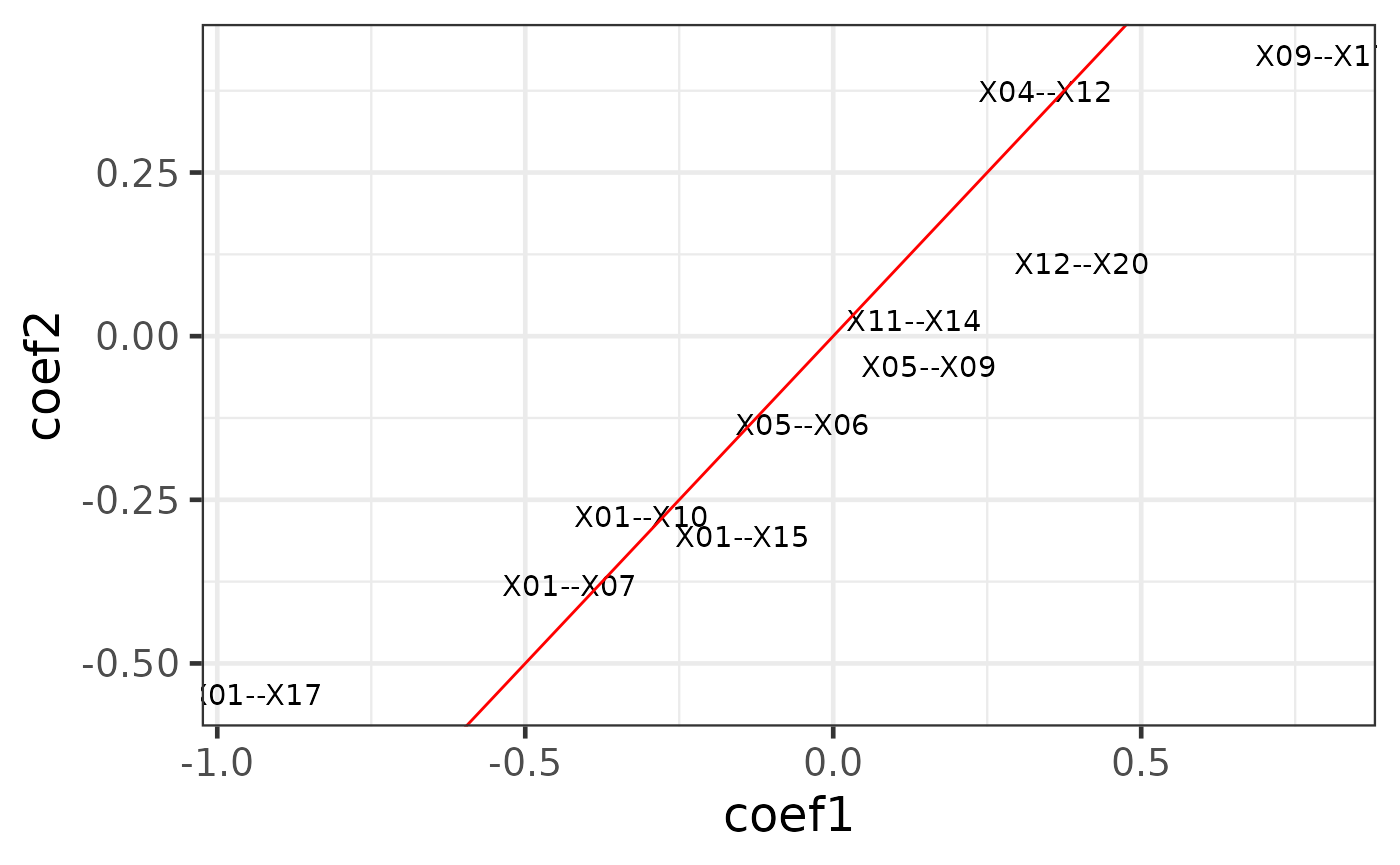
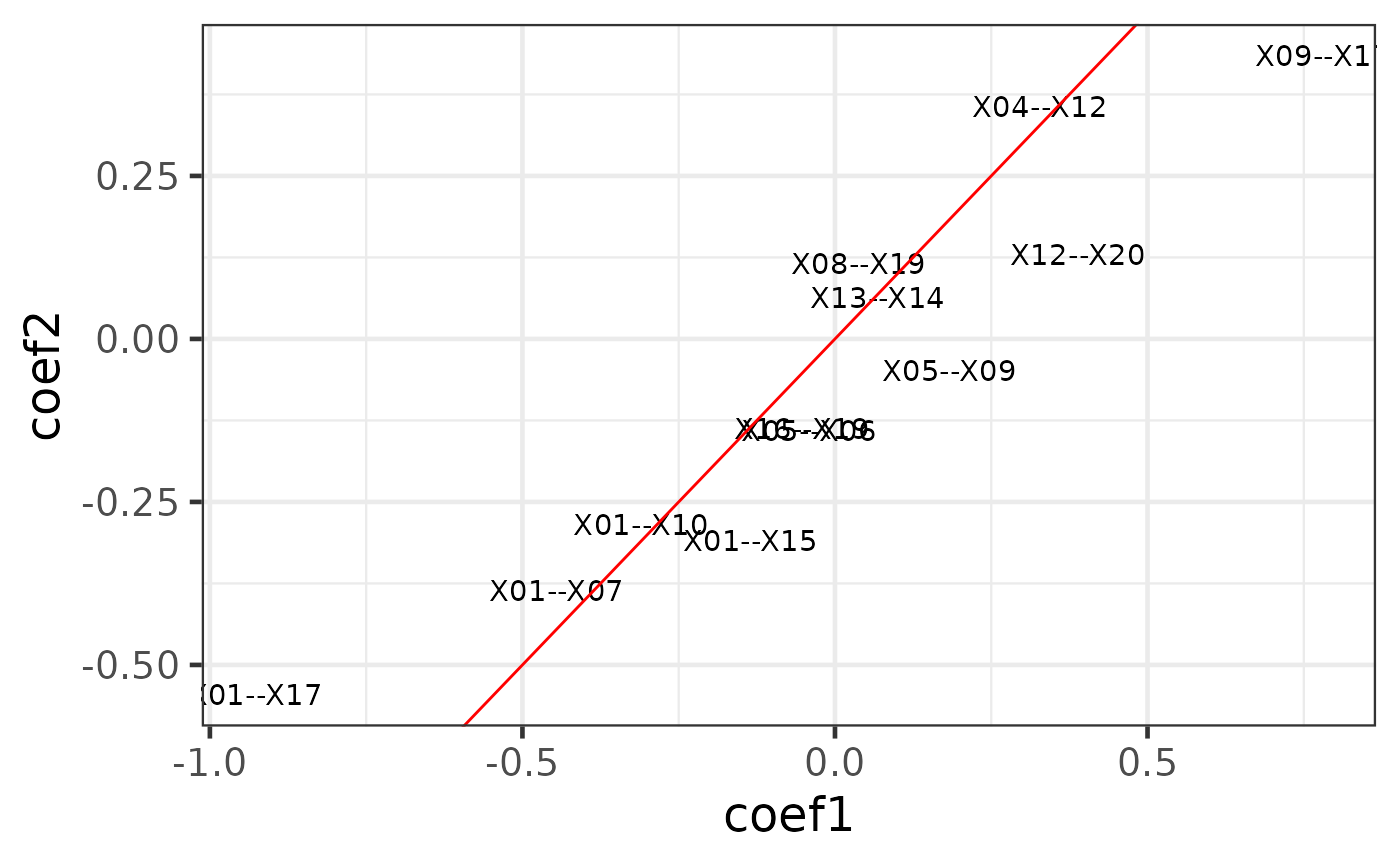
Built site for CPOP: 0.1.0@836260b

diff --git a/articles/CPOP.html b/articles/CPOP.html
@@ -46,7 +46,7 @@
   <a href="../reference/index.html">Reference</a>
 </li>
 <li class="dropdown">
-  <a href="#" class="dropdown-toggle" data-toggle="dropdown" role="button" aria-expanded="false">
+  <a href="#" class="dropdown-toggle" data-toggle="dropdown" role="button" data-bs-toggle="dropdown" aria-expanded="false">
     Articles
      
     <span class="caret"></span>
@@ -161,22 +161,15 @@
 <pre><code><span class="co">## Fitting CPOP model using alpha = 1</span></code></pre>
 <pre><code><span class="co">## Based on previous alpha, 0 features are kept</span></code></pre>
 <pre><code><span class="co">## CPOP1 - Step 01: Number of selected features: 0 out of 190</span></code></pre>
-<pre><code><span class="co">## CPOP1 - Step 02: Number of selected features: 9 out of 190</span></code></pre>
+<pre><code><span class="co">## CPOP1 - Step 02: Number of selected features: 8 out of 190</span></code></pre>
 <pre><code><span class="co">## CPOP1 - Step 03: Number of selected features: 15 out of 190</span></code></pre>
 <pre><code><span class="co">## 10 features was reached.</span></code></pre>
 <pre><code><span class="co">## A total of 15 features were selected.</span></code></pre>
 <pre><code><span class="co">## Removing sources of collinearity gives 12 features.</span></code></pre>
 <pre><code><span class="co">## 10 features was reached.</span></code></pre>
 <pre><code><span class="co">## A total of 12 features were selected.</span></code></pre>
-<pre><code><span class="co">## CPOP2 - Sign: Step 01: Number of leftover features: 10 out of 12</span></code></pre>
+<pre><code><span class="co">## CPOP2 - Sign: Step 01: Number of leftover features: 12 out of 12</span></code></pre>
 <pre><code><span class="co">## The sign matrix between the two data:</span></code></pre>
-<pre><code><span class="co">##     </span>
-<span class="co">##      -1 0 1</span>
-<span class="co">##   -1  0 0 1</span>
-<span class="co">##   0   0 0 0</span>
-<span class="co">##   1   1 0 0</span></code></pre>
-<pre><code><span class="co">## CPOP2 - Sign: Step 02: Number of leftover features: 10 out of 12</span>
-<span class="co">## The sign matrix between the two data:</span></code></pre>
 <pre><code><span class="co">##     </span>
 <span class="co">##      -1 0 1</span>
 <span class="co">##   -1  0 0 0</span>
@@ -188,50 +181,54 @@
 </h3>
 <p>The output of the <code>cpop_model</code> function is a <code>cpop</code> object with its own defined methods.</p>
 <p>The main method for a <code>cpop</code> object is the <code>plot_cpop</code> function, which produces several useful plot to understand what the CPOP methodology has done or performed.</p>
-<div class="sourceCode" id="cb26"><pre class="downlit sourceCode r">
+<div class="sourceCode" id="cb24"><pre class="downlit sourceCode r">
 <code class="sourceCode R"><span class="fu"><a href="https://rdrr.io/r/base/class.html" class="external-link">class</a></span><span class="op">(</span><span class="va">cpop_result</span><span class="op">)</span></code></pre></div>
 <pre><code><span class="co">## [1] "cpop"</span></code></pre>
 <p>The first plot is using the <code>type = "text"</code> option. A labelled scatter plot shows the estimated coefficients of the selected features from data1 (i.e. <code>(x1, y1)</code>, x-axis) vs the same coefficients from data2 (i.e. <code>(x2, y2)</code>, y-axis).</p>
-<div class="sourceCode" id="cb28"><pre class="downlit sourceCode r">
+<div class="sourceCode" id="cb26"><pre class="downlit sourceCode r">
 <code class="sourceCode R"><span class="fu"><a href="../reference/plot_cpop.html">plot_cpop</a></span><span class="op">(</span>cpop_result <span class="op">=</span> <span class="va">cpop_result</span>, type <span class="op">=</span> <span class="st">"text"</span><span class="op">)</span></code></pre></div>
 <pre><code><span class="co">## $plot</span></code></pre>
 <p><img src="CPOP_files/figure-html/unnamed-chunk-5-1.png" width="700"></p>
 <pre><code><span class="co">## </span>
 <span class="co">## $data</span>
-<span class="co">## <span style="color: #949494;"># A tibble: 10 × 3</span></span>
+<span class="co">## <span style="color: #949494;"># A tibble: 12 × 3</span></span>
 <span class="co">##    coef_name   coef1   coef2</span>
 <span class="co">##    <span style="color: #949494; font-style: italic;">&lt;fct&gt;</span>       <span style="color: #949494; font-style: italic;">&lt;dbl&gt;</span>   <span style="color: #949494; font-style: italic;">&lt;dbl&gt;</span></span>
-<span class="co">## <span style="color: #BCBCBC;"> 1</span> X01--X10  -<span style="color: #BB0000;">0.311</span>  -<span style="color: #BB0000;">0.275</span> </span>
-<span class="co">## <span style="color: #BCBCBC;"> 2</span> X05--X06  -<span style="color: #BB0000;">0.049</span><span style="color: #BB0000; text-decoration: underline;">6</span> -<span style="color: #BB0000;">0.136</span> </span>
-<span class="co">## <span style="color: #BCBCBC;"> 3</span> X05--X09   0.155  -<span style="color: #BB0000;">0.047</span><span style="color: #BB0000; text-decoration: underline;">0</span></span>
-<span class="co">## <span style="color: #BCBCBC;"> 4</span> X09--X17   0.795   0.428 </span>
-<span class="co">## <span style="color: #BCBCBC;"> 5</span> X11--X14   0.131   0.023<span style="text-decoration: underline;">3</span></span>
-<span class="co">## <span style="color: #BCBCBC;"> 6</span> X12--X20   0.403   0.111 </span>
-<span class="co">## <span style="color: #BCBCBC;"> 7</span> X01--X07  -<span style="color: #BB0000;">0.428</span>  -<span style="color: #BB0000;">0.381</span> </span>
-<span class="co">## <span style="color: #BCBCBC;"> 8</span> X01--X15  -<span style="color: #BB0000;">0.147</span>  -<span style="color: #BB0000;">0.306</span> </span>
-<span class="co">## <span style="color: #BCBCBC;"> 9</span> X01--X17  -<span style="color: #BB0000;">0.939</span>  -<span style="color: #BB0000;">0.548</span> </span>
-<span class="co">## <span style="color: #BCBCBC;">10</span> X04--X12   0.344   0.374</span></code></pre>
+<span class="co">## <span style="color: #BCBCBC;"> 1</span> X01--X10  -<span style="color: #BB0000;">0.310</span>  -<span style="color: #BB0000;">0.285</span> </span>
+<span class="co">## <span style="color: #BCBCBC;"> 2</span> X05--X06  -<span style="color: #BB0000;">0.041</span><span style="color: #BB0000; text-decoration: underline;">7</span> -<span style="color: #BB0000;">0.141</span> </span>
+<span class="co">## <span style="color: #BCBCBC;"> 3</span> X09--X17   0.780   0.434 </span>
+<span class="co">## <span style="color: #BCBCBC;"> 4</span> X12--X20   0.388   0.130 </span>
+<span class="co">## <span style="color: #BCBCBC;"> 5</span> X13--X14   0.068<span style="text-decoration: underline;">1</span>  0.063<span style="text-decoration: underline;">8</span></span>
+<span class="co">## <span style="color: #BCBCBC;"> 6</span> X16--X19  -<span style="color: #BB0000;">0.053</span><span style="color: #BB0000; text-decoration: underline;">2</span> -<span style="color: #BB0000;">0.137</span> </span>
+<span class="co">## <span style="color: #BCBCBC;"> 7</span> X01--X07  -<span style="color: #BB0000;">0.445</span>  -<span style="color: #BB0000;">0.385</span> </span>
+<span class="co">## <span style="color: #BCBCBC;"> 8</span> X01--X15  -<span style="color: #BB0000;">0.136</span>  -<span style="color: #BB0000;">0.309</span> </span>
+<span class="co">## <span style="color: #BCBCBC;"> 9</span> X01--X17  -<span style="color: #BB0000;">0.928</span>  -<span style="color: #BB0000;">0.546</span> </span>
+<span class="co">## <span style="color: #BCBCBC;">10</span> X04--X12   0.328   0.357 </span>
+<span class="co">## <span style="color: #BCBCBC;">11</span> X05--X09   0.183  -<span style="color: #BB0000;">0.047</span><span style="color: #BB0000; text-decoration: underline;">8</span></span>
+<span class="co">## <span style="color: #BCBCBC;">12</span> X08--X19   0.037<span style="text-decoration: underline;">9</span>  0.115</span></code></pre>
 <p>We can see that most of the selected features had similar coefficients across the two data. This is exactly what CPOP is aiming to achieve: selecting features that are consistent within each datasets.</p>
 <p>However, each of the feature (e.g. <code>X01--X10</code>) actually corresponds to two of the original features in the raw data <code>X01</code> and <code>X10</code> in the data <code>x1</code> and <code>x2</code>. We can further visualise these features in the original features.</p>
-<div class="sourceCode" id="cb31"><pre class="downlit sourceCode r">
+<div class="sourceCode" id="cb29"><pre class="downlit sourceCode r">
 <code class="sourceCode R"><span class="fu"><a href="../reference/plot_cpop.html">plot_cpop</a></span><span class="op">(</span>cpop_result <span class="op">=</span> <span class="va">cpop_result</span>, type <span class="op">=</span> <span class="st">"ggraph"</span><span class="op">)</span></code></pre></div>
 <pre><code><span class="co">## $plot</span></code></pre>
 <p><img src="CPOP_files/figure-html/unnamed-chunk-6-1.png" width="700"></p>
 <pre><code><span class="co">## </span>
 <span class="co">## $data</span>
-<span class="co">## <span style="color: #949494;"># A tibble: 10 × 7</span></span>
+<span class="co">## <span style="color: #949494;"># A tibble: 12 × 7</span></span>
 <span class="co">##    from  to      coef1   coef2 coef_avg coef_abs sign_coef1</span>
 <span class="co">##    <span style="color: #949494; font-style: italic;">&lt;chr&gt;</span> <span style="color: #949494; font-style: italic;">&lt;chr&gt;</span>   <span style="color: #949494; font-style: italic;">&lt;dbl&gt;</span>   <span style="color: #949494; font-style: italic;">&lt;dbl&gt;</span>    <span style="color: #949494; font-style: italic;">&lt;dbl&gt;</span>    <span style="color: #949494; font-style: italic;">&lt;dbl&gt;</span> <span style="color: #949494; font-style: italic;">&lt;chr&gt;</span>     </span>
-<span class="co">## <span style="color: #BCBCBC;"> 1</span> X01   X10   -<span style="color: #BB0000;">0.311</span>  -<span style="color: #BB0000;">0.275</span>   -<span style="color: #BB0000;">0.293</span>    0.293  Negative  </span>
-<span class="co">## <span style="color: #BCBCBC;"> 2</span> X05   X06   -<span style="color: #BB0000;">0.049</span><span style="color: #BB0000; text-decoration: underline;">6</span> -<span style="color: #BB0000;">0.136</span>   -<span style="color: #BB0000;">0.092</span><span style="color: #BB0000; text-decoration: underline;">5</span>   0.092<span style="text-decoration: underline;">5</span> Negative  </span>
-<span class="co">## <span style="color: #BCBCBC;"> 3</span> X05   X09    0.155  -<span style="color: #BB0000;">0.047</span><span style="color: #BB0000; text-decoration: underline;">0</span>   0.054<span style="text-decoration: underline;">1</span>   0.054<span style="text-decoration: underline;">1</span> Positive  </span>
-<span class="co">## <span style="color: #BCBCBC;"> 4</span> X09   X17    0.795   0.428    0.611    0.611  Positive  </span>
-<span class="co">## <span style="color: #BCBCBC;"> 5</span> X11   X14    0.131   0.023<span style="text-decoration: underline;">3</span>   0.077<span style="text-decoration: underline;">1</span>   0.077<span style="text-decoration: underline;">1</span> Positive  </span>
-<span class="co">## <span style="color: #BCBCBC;"> 6</span> X12   X20    0.403   0.111    0.257    0.257  Positive  </span>
-<span class="co">## <span style="color: #BCBCBC;"> 7</span> X01   X07   -<span style="color: #BB0000;">0.428</span>  -<span style="color: #BB0000;">0.381</span>   -<span style="color: #BB0000;">0.405</span>    0.405  Negative  </span>
-<span class="co">## <span style="color: #BCBCBC;"> 8</span> X01   X15   -<span style="color: #BB0000;">0.147</span>  -<span style="color: #BB0000;">0.306</span>   -<span style="color: #BB0000;">0.227</span>    0.227  Negative  </span>
-<span class="co">## <span style="color: #BCBCBC;"> 9</span> X01   X17   -<span style="color: #BB0000;">0.939</span>  -<span style="color: #BB0000;">0.548</span>   -<span style="color: #BB0000;">0.743</span>    0.743  Negative  </span>
-<span class="co">## <span style="color: #BCBCBC;">10</span> X04   X12    0.344   0.374    0.359    0.359  Positive</span></code></pre>
+<span class="co">## <span style="color: #BCBCBC;"> 1</span> X01   X10   -<span style="color: #BB0000;">0.310</span>  -<span style="color: #BB0000;">0.285</span>   -<span style="color: #BB0000;">0.298</span>    0.298  Negative  </span>
+<span class="co">## <span style="color: #BCBCBC;"> 2</span> X05   X06   -<span style="color: #BB0000;">0.041</span><span style="color: #BB0000; text-decoration: underline;">7</span> -<span style="color: #BB0000;">0.141</span>   -<span style="color: #BB0000;">0.091</span><span style="color: #BB0000; text-decoration: underline;">2</span>   0.091<span style="text-decoration: underline;">2</span> Negative  </span>
+<span class="co">## <span style="color: #BCBCBC;"> 3</span> X09   X17    0.780   0.434    0.607    0.607  Positive  </span>
+<span class="co">## <span style="color: #BCBCBC;"> 4</span> X12   X20    0.388   0.130    0.259    0.259  Positive  </span>
+<span class="co">## <span style="color: #BCBCBC;"> 5</span> X13   X14    0.068<span style="text-decoration: underline;">1</span>  0.063<span style="text-decoration: underline;">8</span>   0.065<span style="text-decoration: underline;">9</span>   0.065<span style="text-decoration: underline;">9</span> Positive  </span>
+<span class="co">## <span style="color: #BCBCBC;"> 6</span> X16   X19   -<span style="color: #BB0000;">0.053</span><span style="color: #BB0000; text-decoration: underline;">2</span> -<span style="color: #BB0000;">0.137</span>   -<span style="color: #BB0000;">0.095</span><span style="color: #BB0000; text-decoration: underline;">3</span>   0.095<span style="text-decoration: underline;">3</span> Negative  </span>
+<span class="co">## <span style="color: #BCBCBC;"> 7</span> X01   X07   -<span style="color: #BB0000;">0.445</span>  -<span style="color: #BB0000;">0.385</span>   -<span style="color: #BB0000;">0.415</span>    0.415  Negative  </span>
+<span class="co">## <span style="color: #BCBCBC;"> 8</span> X01   X15   -<span style="color: #BB0000;">0.136</span>  -<span style="color: #BB0000;">0.309</span>   -<span style="color: #BB0000;">0.223</span>    0.223  Negative  </span>
+<span class="co">## <span style="color: #BCBCBC;"> 9</span> X01   X17   -<span style="color: #BB0000;">0.928</span>  -<span style="color: #BB0000;">0.546</span>   -<span style="color: #BB0000;">0.737</span>    0.737  Negative  </span>
+<span class="co">## <span style="color: #BCBCBC;">10</span> X04   X12    0.328   0.357    0.342    0.342  Positive  </span>
+<span class="co">## <span style="color: #BCBCBC;">11</span> X05   X09    0.183  -<span style="color: #BB0000;">0.047</span><span style="color: #BB0000; text-decoration: underline;">8</span>   0.067<span style="text-decoration: underline;">6</span>   0.067<span style="text-decoration: underline;">6</span> Positive  </span>
+<span class="co">## <span style="color: #BCBCBC;">12</span> X08   X19    0.037<span style="text-decoration: underline;">9</span>  0.115    0.076<span style="text-decoration: underline;">7</span>   0.076<span style="text-decoration: underline;">7</span> Positive</span></code></pre>
 <p>Here we see that despite the features that we have selected in terms of the ratio, in actual fact, only a handful of features are useful. In particular, <code>X01</code>, <code>X09</code> and <code>X17</code> are the main contributors.</p>
 </div>
 <div class="section level3">
@@ -240,19 +237,19 @@
 <p>Another useful method on the <code>cpop</code> object is the <code>predict_cpop</code> function. This function takes the previous CPOP result and a new (log-)ratio matrix to produce predictions.</p>
 <p>The first column of the output are the sample IDs. The second and third column are prediction results from data1 and data2 respectively. Since we have done the previous diagnostic test that the coefficient size between the two data are very similar, we do expect that these values to be very highly correlated. The last column is <code>cpop_model_avg</code>, which is a simple average between the two predicted values.</p>
 <p>Note that the predicted values here are on the logit scale (recall that we are performing a logistic regression on binary responses using the elastic net model in the background). We can also transform these values back to predicted probability scale using the <code><a href="../reference/logit-expit.html">CPOP::expit</a></code> function.</p>
-<div class="sourceCode" id="cb34"><pre class="downlit sourceCode r">
+<div class="sourceCode" id="cb32"><pre class="downlit sourceCode r">
 <code class="sourceCode R"><span class="fu"><a href="../reference/predict_cpop.html">predict_cpop</a></span><span class="op">(</span><span class="va">cpop_result</span>, newx <span class="op">=</span> <span class="va">x3</span><span class="op">)</span> <span class="op"><a href="https://magrittr.tidyverse.org/reference/pipe.html" class="external-link">%&gt;%</a></span> <span class="fu"><a href="https://rdrr.io/r/utils/head.html" class="external-link">head</a></span><span class="op">(</span><span class="op">)</span></code></pre></div>
 <pre><code><span class="co">## <span style="color: #949494;"># A tibble: 6 × 6</span></span>
 <span class="co">##   samples cpop_model1 cpop_model2 cpop_model_avg cpop_model_avg_prob</span>
 <span class="co">##   <span style="color: #949494; font-style: italic;">&lt;chr&gt;</span>         <span style="color: #949494; font-style: italic;">&lt;dbl&gt;</span>       <span style="color: #949494; font-style: italic;">&lt;dbl&gt;</span>          <span style="color: #949494; font-style: italic;">&lt;dbl&gt;</span>               <span style="color: #949494; font-style: italic;">&lt;dbl&gt;</span></span>
-<span class="co">## <span style="color: #BCBCBC;">1</span> 1             0.586      -<span style="color: #BB0000;">0.162</span>          0.212               0.551</span>
-<span class="co">## <span style="color: #BCBCBC;">2</span> 2            -<span style="color: #BB0000;">1.80</span>       -<span style="color: #BB0000;">0.752</span>         -<span style="color: #BB0000;">1.28</span>                0.231</span>
-<span class="co">## <span style="color: #BCBCBC;">3</span> 3             0.937       0.233          0.585               0.638</span>
-<span class="co">## <span style="color: #BCBCBC;">4</span> 4            -<span style="color: #BB0000;">0.899</span>      -<span style="color: #BB0000;">0.475</span>         -<span style="color: #BB0000;">0.687</span>               0.336</span>
-<span class="co">## <span style="color: #BCBCBC;">5</span> 5            -<span style="color: #BB0000;">0.479</span>      -<span style="color: #BB0000;">0.188</span>         -<span style="color: #BB0000;">0.334</span>               0.418</span>
-<span class="co">## <span style="color: #BCBCBC;">6</span> 6             0.945       1.35           1.15                0.757</span>
+<span class="co">## <span style="color: #BCBCBC;">1</span> 1             0.500      -<span style="color: #BB0000;">0.169</span>          0.165               0.540</span>
+<span class="co">## <span style="color: #BCBCBC;">2</span> 2            -<span style="color: #BB0000;">1.76</span>       -<span style="color: #BB0000;">0.896</span>         -<span style="color: #BB0000;">1.33</span>                0.218</span>
+<span class="co">## <span style="color: #BCBCBC;">3</span> 3             0.750       0.127          0.439               0.605</span>
+<span class="co">## <span style="color: #BCBCBC;">4</span> 4            -<span style="color: #BB0000;">1.09</span>       -<span style="color: #BB0000;">0.748</span>         -<span style="color: #BB0000;">0.918</span>               0.287</span>
+<span class="co">## <span style="color: #BCBCBC;">5</span> 5            -<span style="color: #BB0000;">0.414</span>       0.102         -<span style="color: #BB0000;">0.156</span>               0.462</span>
+<span class="co">## <span style="color: #BCBCBC;">6</span> 6             0.997       1.41           1.20                0.767</span>
 <span class="co">## <span style="color: #949494;"># … with 1 more variable: cpop_model_avg_class &lt;chr&gt;</span></span></code></pre>
-<div class="sourceCode" id="cb36"><pre class="downlit sourceCode r">
+<div class="sourceCode" id="cb34"><pre class="downlit sourceCode r">
 <code class="sourceCode R"><span class="va">predicted_plotdf</span> <span class="op">=</span> <span class="fu"><a href="../reference/predict_cpop.html">predict_cpop</a></span><span class="op">(</span><span class="va">cpop_result</span>, newx <span class="op">=</span> <span class="va">x3</span><span class="op">)</span> <span class="op"><a href="https://magrittr.tidyverse.org/reference/pipe.html" class="external-link">%&gt;%</a></span>
   <span class="fu">dplyr</span><span class="fu">::</span><span class="fu"><a href="https://dplyr.tidyverse.org/reference/mutate.html" class="external-link">mutate</a></span><span class="op">(</span>
     cpop_model1 <span class="op">=</span> <span class="fu"><a href="../reference/logit-expit.html">expit</a></span><span class="op">(</span><span class="va">cpop_model1</span><span class="op">)</span>, 

diff --git a/index.html b/index.html
@@ -46,7 +46,7 @@
   <a href="reference/index.html">Reference</a>
 </li>
 <li class="dropdown">
-  <a href="#" class="dropdown-toggle" data-toggle="dropdown" role="button" aria-expanded="false">
+  <a href="#" class="dropdown-toggle" data-toggle="dropdown" role="button" data-bs-toggle="dropdown" aria-expanded="false">
     Articles
      
     <span class="caret"></span>
@@ -72,7 +72,7 @@
   <div class="contents col-md-9">
 
 <div class="section level1">
-<div class="page-header"><h1 id="cpop">CPOP<a class="anchor" aria-label="anchor" href="#cpop"></a>
+<div class="page-header"><h1 id="cross-platform-omics-prediction-cpop">Cross Platform Omics Prediction (CPOP)<a class="anchor" aria-label="anchor" href="#cross-platform-omics-prediction-cpop"></a>
 </h1></div>
 
 </div>
@@ -81,18 +81,18 @@
 </h1>
 <p>Due to data scale differences between multiple omics data, a model constructed from a training data tends to have poor prediction power on a validation data. While the usual bioinformatics approach is to re-normalise both the training and the validation data, this step may not be possible due to ethics constrains. CPOP avoids re-normalisation of additional data through the use of log-ratio features and thus also enable prediction for single omics samples.</p>
 <p>The novelty of the CPOP procedure lies in its ability to construct a <strong>transferable</strong> model across gene expression platforms and for prospective experiments. Such a transferable model can be trained to make predictions on independent validation data with an accuracy that is similar to a re-substituted model. The CPOP procedure also has the flexibility to be adapted to suit the most common clinical response variables, including linear response, binomial and Cox PH models.</p>
-<p><img src="https://kevinwang09.github.io/CPOP/articles/1a.png"></p>
+<p><img src="https://sydneybiox.github.io/CPOP/articles/1a.png"></p>
 </div>
 <div class="section level1">
 <h1 id="vignette">Vignette<a class="anchor" aria-label="anchor" href="#vignette"></a>
 </h1>
-<p>See <a href="https://kevinwang09.github.io/CPOP/articles/CPOP.html" class="external-link uri">https://kevinwang09.github.io/CPOP/articles/CPOP.html</a>.</p>
+<p>See <a href="https://sydneybiox.github.io/CPOP/articles/CPOP.html" class="external-link uri">https://sydneybiox.github.io/CPOP/articles/CPOP.html</a>.</p>
 </div>
 <div class="section level1">
 <h1 id="installation">Installation<a class="anchor" aria-label="anchor" href="#installation"></a>
 </h1>
 <div class="sourceCode" id="cb1"><pre class="downlit sourceCode r">
-<code class="sourceCode R"><span class="fu">devtools</span><span class="fu">::</span><span class="fu">install_github</span><span class="op">(</span><span class="st">"kevinwang09/CPOP"</span><span class="op">)</span></code></pre></div>
+<code class="sourceCode R"><span class="fu">devtools</span><span class="fu">::</span><span class="fu">install_github</span><span class="op">(</span><span class="st">"sydneybiox/CPOP"</span><span class="op">)</span></code></pre></div>
 </div>
 <div class="section level1">
 <h1 id="references">References<a class="anchor" aria-label="anchor" href="#references"></a>

diff --git a/reference/naive_glmnet.html b/reference/naive_glmnet.html
@@ -29,7 +29,7 @@
   <a href="../reference/index.html">Reference</a>
 </li>
 <li class="dropdown">
-  <a href="#" class="dropdown-toggle" data-toggle="dropdown" role="button" aria-expanded="false">
+  <a href="#" class="dropdown-toggle" data-toggle="dropdown" role="button" data-bs-toggle="dropdown" aria-expanded="false">
     Articles
      
     <span class="caret"></span>
@@ -154,7 +154,10 @@
 <span class="r-out co"><span class="r-pr">#&gt;</span> <span style="color: #BCBCBC;">8</span> X01--X17    -<span style="color: #BB0000;">0.901</span> -<span style="color: #BB0000;">0.644</span>  </span>
 <span class="r-out co"><span class="r-pr">#&gt;</span> <span style="color: #BCBCBC;">9</span> X04--X12     0.353  0.431  </span>
 <span class="r-in"><span class="va">lasso_result</span></span>
-<span class="r-out co"><span class="r-pr">#&gt;</span> $glmnet1</span>
+<span class="r-out co"><span class="r-pr">#&gt;</span> $cpop_mode</span>
+<span class="r-out co"><span class="r-pr">#&gt;</span> [1] "glmnet"</span>
+<span class="r-out co"><span class="r-pr">#&gt;</span> </span>
+<span class="r-out co"><span class="r-pr">#&gt;</span> $model1</span>
 <span class="r-out co"><span class="r-pr">#&gt;</span> </span>
 <span class="r-out co"><span class="r-pr">#&gt;</span> Call:  glmnet::cv.glmnet(x = z1, y = y1, family = family, alpha = 1,      intercept = FALSE) </span>
 <span class="r-out co"><span class="r-pr">#&gt;</span> </span>
@@ -164,7 +167,7 @@
 <span class="r-out co"><span class="r-pr">#&gt;</span> min 0.02765    54  0.7032 0.09817      14</span>
 <span class="r-out co"><span class="r-pr">#&gt;</span> 1se 0.09267    28  0.7935 0.05895       7</span>
 <span class="r-out co"><span class="r-pr">#&gt;</span> </span>
-<span class="r-out co"><span class="r-pr">#&gt;</span> $glmnet2</span>
+<span class="r-out co"><span class="r-pr">#&gt;</span> $model2</span>
 <span class="r-out co"><span class="r-pr">#&gt;</span> </span>
 <span class="r-out co"><span class="r-pr">#&gt;</span> Call:  glmnet::cv.glmnet(x = z2, y = y2, family = family, alpha = 1,      intercept = FALSE) </span>
 <span class="r-out co"><span class="r-pr">#&gt;</span> </span>

diff --git a/reference/cpop_network.html b/reference/cpop_network.html
@@ -29,7 +29,7 @@
   <a href="../reference/index.html">Reference</a>
 </li>
 <li class="dropdown">
-  <a href="#" class="dropdown-toggle" data-toggle="dropdown" role="button" aria-expanded="false">
+  <a href="#" class="dropdown-toggle" data-toggle="dropdown" role="button" data-bs-toggle="dropdown" aria-expanded="false">
     Articles
      
     <span class="caret"></span>
@@ -84,9 +84,9 @@ using the `ggraph` package.</p></li>
 <span class="r-in"><span class="fu">plot_lratio_network</span><span class="op">(</span><span class="va">x</span>, type <span class="op">=</span> <span class="st">"ggraph"</span><span class="op">)</span></span>
 <span class="r-plt img"><img src="cpop_network-1.png" alt="" width="700" height="433"></span>
 <span class="r-in"><span class="fu">plot_lratio_network</span><span class="op">(</span><span class="va">x</span>, type <span class="op">=</span> <span class="st">"igraph"</span><span class="op">)</span></span>
-<span class="r-out co"><span class="r-pr">#&gt;</span> IGRAPH c4aafd3 UN-- 10 9 -- </span>
+<span class="r-out co"><span class="r-pr">#&gt;</span> IGRAPH 97a6234 UN-- 10 9 -- </span>
 <span class="r-out co"><span class="r-pr">#&gt;</span> + attr: name (v/c)</span>
-<span class="r-out co"><span class="r-pr">#&gt;</span> + edges from c4aafd3 (vertex names):</span>
+<span class="r-out co"><span class="r-pr">#&gt;</span> + edges from 97a6234 (vertex names):</span>
 <span class="r-out co"><span class="r-pr">#&gt;</span> [1] X1 --X10 X1 --X3  X1 --X4  X1 --X8  X1 --X9  X2 --X5  X2 --X7  X2 --X6 </span>
 <span class="r-out co"><span class="r-pr">#&gt;</span> [9] X10--X8 </span>
 <span class="r-in"><span class="fu">plot_lratio_network</span><span class="op">(</span><span class="va">x</span>, type <span class="op">=</span> <span class="st">"visNetwork"</span><span class="op">)</span></span>

diff --git a/reference/additional_panels.html b/reference/additional_panels.html
@@ -32,7 +32,7 @@ panel_scatter_smallDots with h and v lines at zero"><!-- mathjax --><script src=
   <a href="../reference/index.html">Reference</a>
 </li>
 <li class="dropdown">
-  <a href="#" class="dropdown-toggle" data-toggle="dropdown" role="button" aria-expanded="false">
+  <a href="#" class="dropdown-toggle" data-toggle="dropdown" role="button" data-bs-toggle="dropdown" aria-expanded="false">
     Articles
      
     <span class="caret"></span>

diff --git a/reference/cpop_internals.html b/reference/cpop_internals.html
@@ -34,7 +34,7 @@ Step 3 of the CPOP method"><!-- mathjax --><script src="https://cdnjs.cloudflare
   <a href="../reference/index.html">Reference</a>
 </li>
 <li class="dropdown">
-  <a href="#" class="dropdown-toggle" data-toggle="dropdown" role="button" aria-expanded="false">
+  <a href="#" class="dropdown-toggle" data-toggle="dropdown" role="button" data-bs-toggle="dropdown" aria-expanded="false">
     Articles
      
     <span class="caret"></span>

diff --git a/reference/cpop_model.html b/reference/cpop_model.html
@@ -32,7 +32,7 @@ construct a final model used for prediction."><!-- mathjax --><script src="https
   <a href="../reference/index.html">Reference</a>
 </li>
 <li class="dropdown">
-  <a href="#" class="dropdown-toggle" data-toggle="dropdown" role="button" aria-expanded="false">
+  <a href="#" class="dropdown-toggle" data-toggle="dropdown" role="button" data-bs-toggle="dropdown" aria-expanded="false">
     Articles
      
     <span class="caret"></span>

diff --git a/reference/identity_distance.html b/reference/identity_distance.html
@@ -31,7 +31,7 @@ calculation for every pairwise rows in a matrix."><!-- mathjax --><script src="h
   <a href="../reference/index.html">Reference</a>
 </li>
 <li class="dropdown">
-  <a href="#" class="dropdown-toggle" data-toggle="dropdown" role="button" aria-expanded="false">
+  <a href="#" class="dropdown-toggle" data-toggle="dropdown" role="button" data-bs-toggle="dropdown" aria-expanded="false">
     Articles
      
     <span class="caret"></span>

diff --git a/reference/logit-expit.html b/reference/logit-expit.html
@@ -30,7 +30,7 @@ The expit function"><!-- mathjax --><script src="https://cdnjs.cloudflare.com/aj
   <a href="../reference/index.html">Reference</a>
 </li>
 <li class="dropdown">
-  <a href="#" class="dropdown-toggle" data-toggle="dropdown" role="button" aria-expanded="false">
+  <a href="#" class="dropdown-toggle" data-toggle="dropdown" role="button" data-bs-toggle="dropdown" aria-expanded="false">
     Articles
      
     <span class="caret"></span>

diff --git a/reference/penalties.html b/reference/penalties.html
@@ -30,7 +30,7 @@ Compute t-stat absolute difference penalty"><!-- mathjax --><script src="https:/
   <a href="../reference/index.html">Reference</a>
 </li>
 <li class="dropdown">
-  <a href="#" class="dropdown-toggle" data-toggle="dropdown" role="button" aria-expanded="false">
+  <a href="#" class="dropdown-toggle" data-toggle="dropdown" role="button" data-bs-toggle="dropdown" aria-expanded="false">
     Articles
      
     <span class="caret"></span>

diff --git a/articles/FAQ.html b/articles/FAQ.html
@@ -46,7 +46,7 @@
   <a href="../reference/index.html">Reference</a>
 </li>
 <li class="dropdown">
-  <a href="#" class="dropdown-toggle" data-toggle="dropdown" role="button" aria-expanded="false">
+  <a href="#" class="dropdown-toggle" data-toggle="dropdown" role="button" data-bs-toggle="dropdown" aria-expanded="false">
     Articles
      
     <span class="caret"></span>

diff --git a/articles/index.html b/articles/index.html
@@ -29,7 +29,7 @@
   <a href="../reference/index.html">Reference</a>
 </li>
 <li class="dropdown">
-  <a href="#" class="dropdown-toggle" data-toggle="dropdown" role="button" aria-expanded="false">
+  <a href="#" class="dropdown-toggle" data-toggle="dropdown" role="button" data-bs-toggle="dropdown" aria-expanded="false">
     Articles
      
     <span class="caret"></span>
